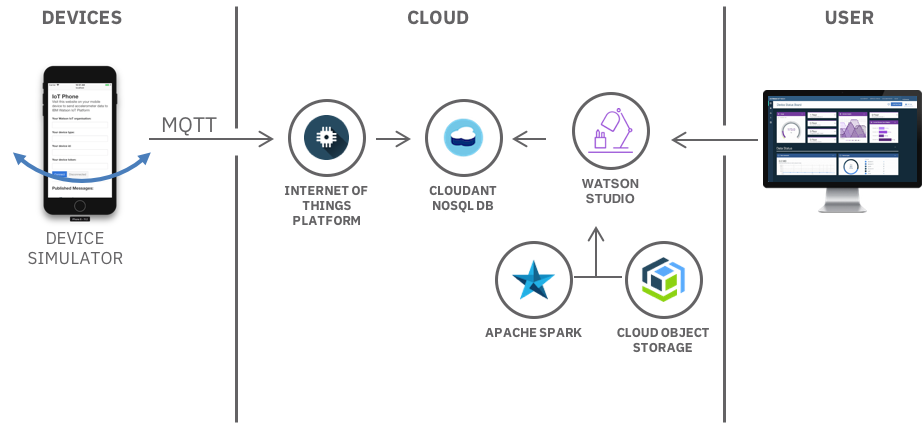
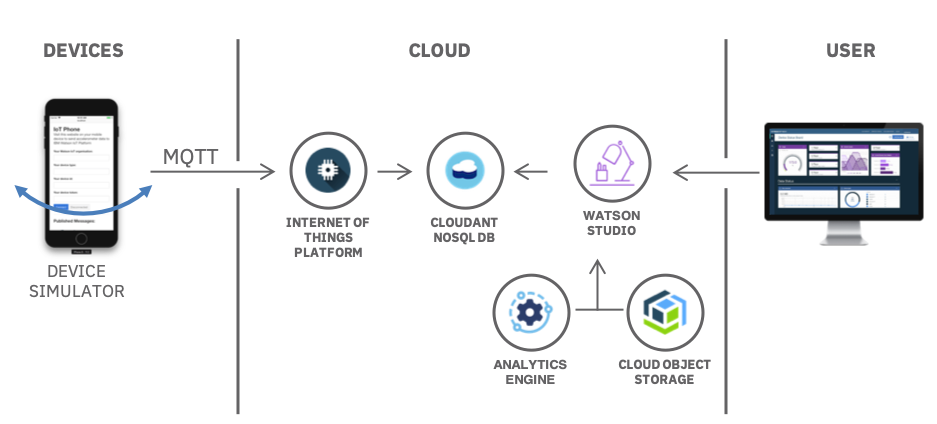
use Analytics Engine

diff --git a/gather-visualize-analyze-iot-data.md b/gather-visualize-analyze-iot-data.md
@@ -30,10 +30,8 @@ This tutorial walks you through setting up an IoT device, gathering data in the 
 This tutorial uses the following runtimes and services:
 * [{{site.data.keyword.iot_full}}](https://{DomainName}/catalog/services/internet-of-things-platform)
 * [Node.js Application](https://{DomainName}/catalog/starters/sdk-for-nodejs)
-* [{{site.data.keyword.DSX_short}}](https://{DomainName}/catalog/services/data-science-experience) with Spark service and {{site.data.keyword.cos_full_notm}}
+* [{{site.data.keyword.DSX_short}}](https://{DomainName}/catalog/services/data-science-experience) with [{{site.data.keyword.iae_full_notm}}](https://{DomainName}/catalog/services/analytics-engine) and {{site.data.keyword.cos_full_notm}}
 * [{{site.data.keyword.cloudant_short_notm}}](https://{DomainName}/catalog/services/cloudant)
-* [{{site.data.keyword.iae_full_notm}}](https://{DomainName}/catalog/services/analytics-engine)
-
 
 This tutorial may incur costs. Use the [Pricing Calculator](https://{DomainName}/pricing/) to generate a cost estimate based on your projected usage.
 
